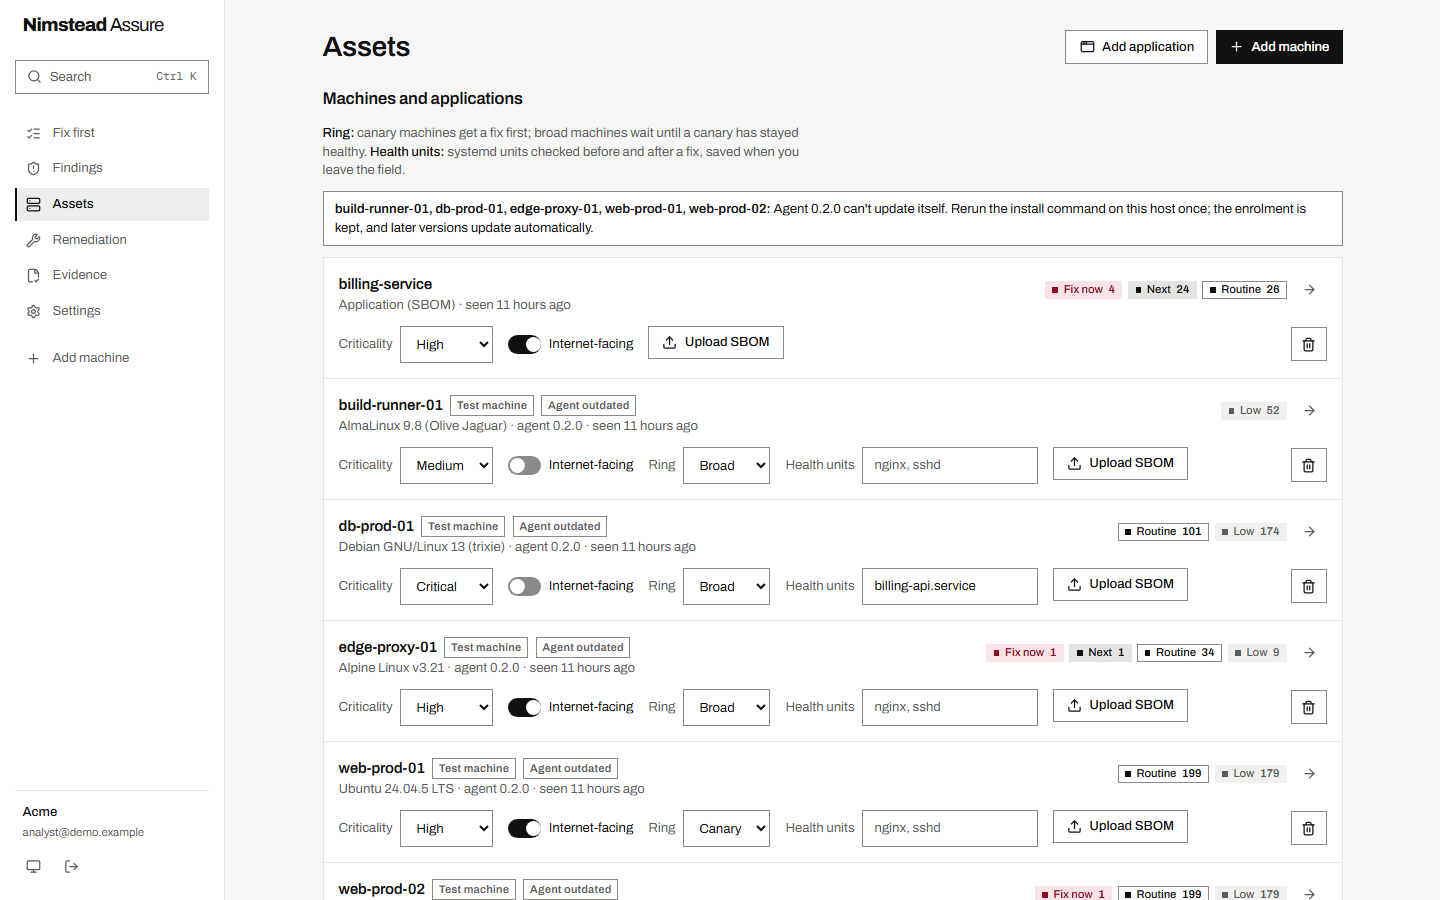
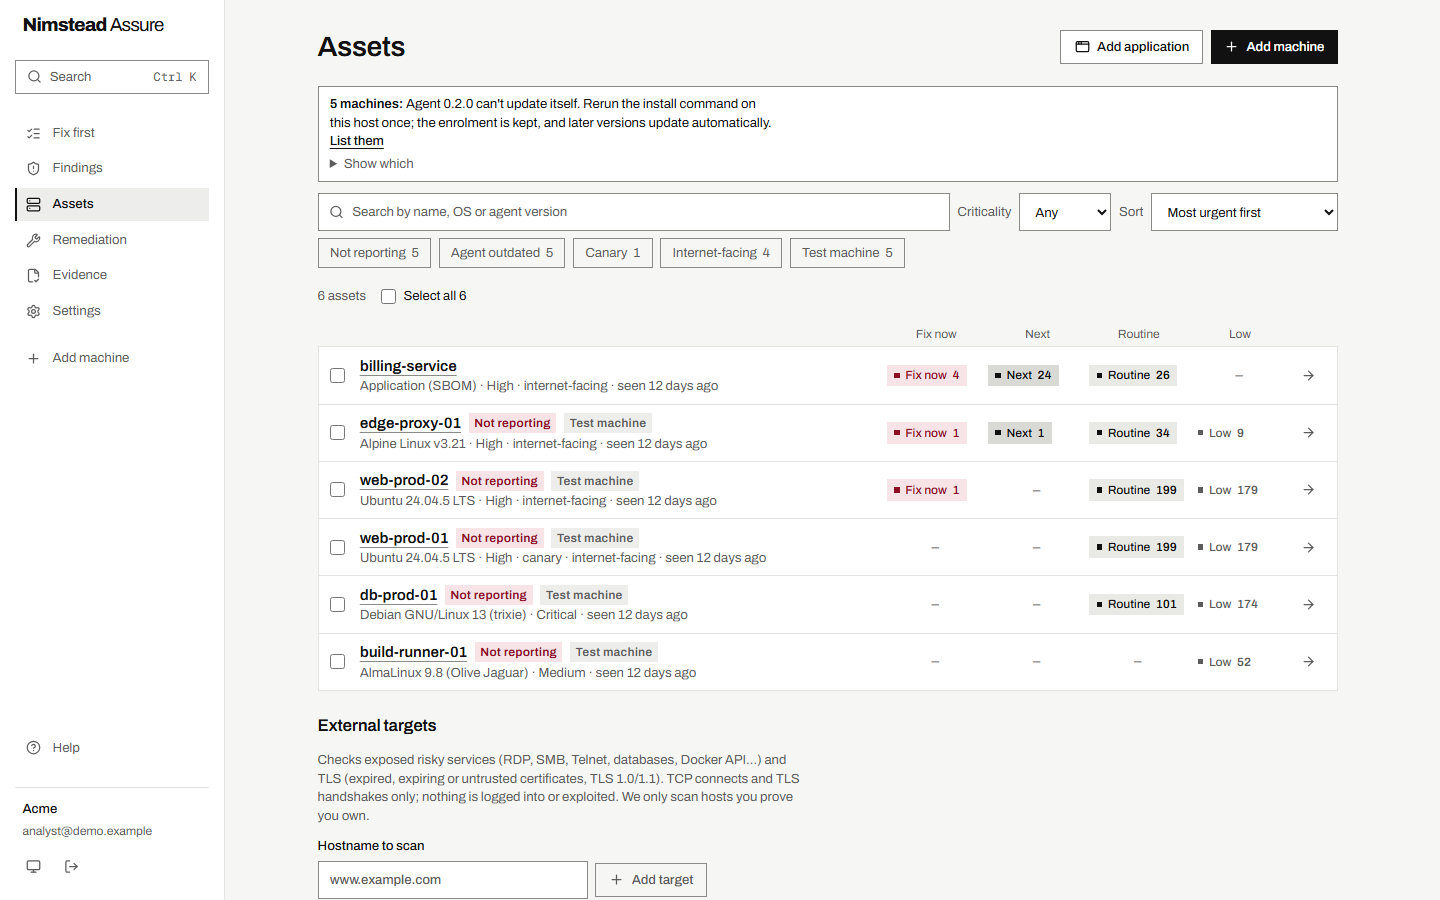
Docs for 0.7.5: README screenshots, fleet view, STATUS (#37)
Documentation for 0.7.5. No code changes.

- **Screenshots:** the six README images are retaken from the real
five-host demo on the 0.7.5 UI (`web/scripts/readme-shots.mjs`, which
now waits for the renamed "Recommended fixes" heading). A new
`findings-fleet-1440.png` shows Findings at 206 machines with three
findings selected; the README says it comes from the demo grown by
cloning the real inventories.
- **README:** a "Works at fleet scale" point (paging, sorting, grouping,
bulk plan and accept, saved views, Ctrl K, keyboard), approval now shows
packages and the machine, and alt text that matches what the new screens
show.
- **STATUS:** the 0.7.5 release line (merge, tag, verified signature and
agent hash 9d3e52e6, beta after 2026-11-23) and how the screenshots are
made, including bringing an older demo database up to the current
schema.

🤖 Generated with [Claude Code](https://claude.com/claude-code)

---------

diff --git a/web/e2e/app.spec.ts b/web/e2e/app.spec.ts
@@ -520,7 +520,7 @@ test("findings: act on a selection, save a view, use the drawer's keys, and land
   const dlg = page.getByRole("alertdialog");
   await dlg.getByLabel("Reason").fill("Isolated test host, no inbound access");
   await dlg.getByRole("button", { name: "Accept risk" }).click();
-  await expect(page.getByText("2 findings accepted for 90 days.")).toBeVisible();
+  await expect(page.locator("main").getByText("2 findings accepted for 90 days.")).toBeVisible();  // not the sr-only live region, which says it too
   // a saved view comes back from the palette
   await page.getByRole("button", { name: "Save view" }).click();
   await page.getByLabel("Name for this view").fill("Test host");

diff --git a/STATUS.md b/STATUS.md
@@ -85,6 +85,7 @@ All four evidence packs verified, with 6/6 controls met. On Alpine, the dry run 
 - **Windows 10 22H2: detection and a safe refusal on a real install (2026-11-02; the last free cumulative's fix through the task proven since, see above, `last_run_windows10_esu_refused.json`, Enterprise Evaluation, build 19045.2006):** install, enrolment and reporting work, and the job stops with no changes and says no Extended Security Updates licence is active. Windows Update offers only the last free update there (2025-10, KB5066791); Nimstead syncs recent MSRC months and targets the ESU updates, so the two disagree for that reason and the comparison isn't an agreement. Installing an ESU fix needs an ESU-licensed machine, which isn't available here. Server 2016 and earlier Windows 10 builds remain untried.
 - **Still missing:** breadth (105 curated apps, where commercial scanners cover thousands; batch 8 stopped the batches by the plan's own rule, no mappable winget candidate with 20 or more CVEs being left; the noise review with the batches installed together covers 50 of them, app findings only, checked by machine against raw NVD with none unexplained, `last_run_winnoise.json`; on 2026-11-04 split over two VMs, 74 apps installed, 353 findings at old versions with none unexplained, `last_run_winnoise_part1of2.json` and `last_run_winnoise_part2of2.json`; after updating, 32 and 23 findings, none unexplained), agentless scanning across real networks (`scan-remote` is proven only on a VM scanning itself, `last_run_winremote.json`: same packages and settings as the agent; it can't fix, and needs PowerShell remoting on), full CIS/STIG benchmarks. The .NET Framework fix is proven on Windows 11, Server 2019 and Server 2022 (`last_run_winnetfx*.json`); Windows 10 22H2 detects but can't install it without an ESU licence (`last_run_winnetfx_windows10_22h2.json`), and Server 2016 and 2025 are untried.
 - **After 0.7.0 (2026-11-06):** how much of a host is checked, on a real Windows 11 VM with 63 apps: 57 of 77 installs (`last_run_wincoverage.json`; a .NET runtime is now counted through the fact the server checks); the SharePoint and Exchange collectors on real installs from Microsoft's trial media, each reporting the version the host itself records (`last_run_winsharepoint.json`, `last_run_winexchange.json`; SharePoint as binaries only, Exchange as its management tools, not a mailbox server); the benchmark settings read in full on a German Windows install (`last_run_winbaseline_judged_as.json`); the agent installed by a Group Policy scheduled task at boot, with nobody signed in (`last_run_wingpo.json`; how-to in docs/install.md); a two-node failover cluster patched node by node with the role online from outside throughout (`last_run_wincluster.json`, agent 0.6.2: two health-check bugs it found are fixed, see CHANGELOG); the benchmark references on a real Server 2025 (`last_run_winbaseline.json`): 20 sampled rules read the same by the agent and in the guest. `winvm.py create --reuse` proven on a real VM: a Server 2025 base installed once, the run's clone reported 2 minutes after start (DECISIONS 107).
+- **Release 0.7.5:** released 2026-11-09 on the preview channel (agent 0.6.6), the owner's go-ahead and gate approval; PR #36 squash-merged as 30112ce and tagged v0.7.5; manifest signature and the published agent's hash (9d3e52e6…) verified against the tag. It carries a UI review at fleet scale: eight rounds of Impeccable critique (26 to 30/40) and six of technical audit (15 to 16/20) on a 206-machine demo, the browser detector from about 500 findings to 0, axe clean at 1440 and 375 in both themes. Bulk plan and accept on Findings, saved views, paging, grouping and sorting; Assets as a filterable list with a drawer; approval with packages and machine context; gzip and immutable asset caching; the agent's rollback check no longer prints a mismatch on success. No migration. Promote to beta after 2026-11-23 if no agent regressions.
 - **Release 0.7.4:** released 2026-11-08 on the preview channel (agent 0.6.5), the owner's go-ahead and gate approval; PR #34 squash-merged as 8dc3bd2 and tagged v0.7.4; manifest signature and the published agent's hash (fdebe9e7…) verified against the tag. It carries the fixes from a full code audit (ledger and remediation locking, findings kept open on failed sources, the batch plan endpoint, faster ledger, pack and engine; DECISIONS 121, 122), one migration (a1c3e5f7b902), and the docs catch-up for 0.7.3.
 - **Release 0.7.3:** released 2026-11-08 on the preview channel (agent 0.6.4), the owner's go-ahead and gate approval; PR #33 squash-merged as 740bb6e and tagged v0.7.3; manifest signature and the published agent's hash (b9975327…) verified against the tag. It carries the .NET fix on Windows Server (DECISIONS 117, 118), five more years of MSRC for Microsoft apps (DECISIONS 114), the VirtualBox 7.x publisher (DECISIONS 113), the app rules labelled by evidence (W13) and the real-install proofs of W2, W4, W5 and W6.
 - **Release 0.7.2:** released 2026-11-07 on the preview channel (agent 0.6.3), the owner's go-ahead and gate approval; PR #32 squash-merged as 19e5f81 and tagged v0.7.2; manifest signature and the published agent's hash (e202064a…) verified against the tag. It carries W11, W13 batch 8, the W1 coverage fix, attack paths on group membership (DECISIONS 112) and the engine shadow (phase 1 of `tasks/plan-engine-findings.md`).
@@ -106,7 +107,7 @@ All four evidence packs verified, with 6/6 controls met. On Alpine, the dry run 
 - **Real-host E2E:** `cd api && uv run python ../sandbox/sbx.py --distro Debian|Ubuntu-24.04|AlmaLinux-9|alpine-3.21.0` · openSUSE + snapper: `uv run python ../sandbox/suse.py` · Windows (Server 2025 or Windows 11 ISO): `../sandbox/winvm.py create ISO`, then `../sandbox/wine2e.py VM`
 - **Docker Compose install:** `cd api && uv run python ../sandbox/compose.py`
 - **Signed platform + agent updates (real Compose host):** `cd api && uv run python ../sandbox/platform_update.py` · agent schedule on real systemd: `uv run python ../sandbox/agent_schedule.py`
-- **Demo from real hosts (README screenshots):** `cd api && uv run python ../sandbox/demo.py`, then serve `api/demo/nimstead-demo.db` as its docstring shows
+- **Demo from real hosts (README screenshots):** `cd api && uv run python ../sandbox/demo.py`, then serve `api/demo/nimstead-demo.db` as its docstring shows; then `cd web && node scripts/readme-shots.mjs <url>`. An older demo database needs the new tables and columns before it serves (0.7.5's shots used a copy brought up to the current schema). `docs/images/findings-fleet-1440.png` comes from the fleet demo: the same database grown to 206 machines by cloning the real inventories (206 assets, 44k open findings), used for the 0.7.5 UI review
 - **PostgreSQL suite:** `cd api && uv run python ../sandbox/pg.py`
 
 ## Review notes (Windows round 1: calls made without the owner, plan decision 7)

diff --git a/README.md b/README.md
@@ -23,21 +23,26 @@ Nimstead Assure scans your Linux and Windows machines and your applications' dep
 - **Says how sure it is.** Every check on a host gets a verdict and a confidence, and the scan report says what stopped any check from concluding instead of calling the host clean. It also shows how a host's weaknesses chain into a compromise, from getting in to reaching the next machine, and the single fix that breaks each chain.
 - **Covers your applications too.** Upload a CycloneDX or SPDX SBOM from CI, and PyPI, npm, Maven, NuGet, RubyGems, Go, crates.io, Packagist, Hex and Pub packages are matched the same way.
 - **Tells you what to fix first.** CISA KEV first, then EPSS likelihood, CVSS, how critical the machine is and whether it faces the internet, with a plain-English reason for every score. The home screen shows *upgrades* ("openssl → fixes 12 vulnerabilities on 3 hosts"), not a wall of CVEs.
-- **Fixes things without surprises.** You approve a fix. It goes to canary machines first, with a dry run that refuses anything outside the plan, a rollback copy taken before every change, health checks after, and automatic rollback if they fail. A fix only counts once the next inventory shows the vulnerability is gone.
+- **Works at fleet scale.** Findings page through tens of thousands of rows, sort by any column, and group by vulnerability or package. Select findings to plan the fix on every machine they're on, or accept the risk with one recorded reason. Save filter sets as views, search everything with Ctrl K, and step through findings with the keyboard. Assets has search, filters and bulk edit.
+- **Fixes things without surprises.** You approve a fix, after seeing every package it changes and the machine it runs on. It goes to canary machines first, with a dry run that refuses anything outside the plan, a rollback copy taken before every change, health checks after, and automatic rollback if they fail. A fix only counts once the next inventory shows the vulnerability is gone.
 - **Proves the work.** Every detection, fix and decision lands in a hash-chained ledger with signed off-database checkpoints. Ed25519-signed evidence packs map to Cyber Essentials, ISO 27001 A.8.8, NIST RA-5/SI-2, PCI DSS 6.3.3 and CIS 7, and verify offline against a pinned key fingerprint.
 - **Watches your edge.** Internet hosts you prove you own (DNS TXT) are checked for exposed risky services and weak TLS.
 - **Keeps itself current, safely.** Agents update themselves only from releases signed by the Nimstead release key, which your server never holds, so a compromised server can't push code to your machines. The server tells you when a release is out, and `deploy/update.sh` installs it with a database backup and automatic rollback. Machines that stop reporting are flagged.
 - **Fits your organisation.** OIDC single sign-on with verified domains, admin and read-only roles, webhook and email alerts for failed fixes and new urgent findings, keys in Vault and checkpoints in object-locked S3.
 
-Every screenshot here is from a real run ([`sandbox/demo.py`](sandbox/demo.py)): five disposable Linux machines (Ubuntu 24.04, Debian 13, AlmaLinux 9, Alpine 3.21) running the real agent, real vulnerability feeds, an application SBOM, and real fixes on those machines.
+Every screenshot here is from a real run ([`sandbox/demo.py`](sandbox/demo.py)): five disposable Linux machines (Ubuntu 24.04, Debian 13, AlmaLinux 9, Alpine 3.21) running the real agent, real vulnerability feeds, an application SBOM, and real fixes on those machines. The fleet view below is the same demo grown to 206 machines by cloning those real inventories.
 
 | A fix verified, a fix rolled back when it broke a service, and one the dry run refused | Why a finding matched, and why it's ranked there |
 |---|---|
-| ![Remediation: acl awaiting approval; openssl on Alpine refused because it would also change musl; openssl on Debian rolled back after billing-api.service kept restarting; brotli on Ubuntu fixed and verified](docs/images/remediation-1440.png) | ![Log4Shell (CVE-2021-44228) on billing-service: installed 2.14.1, fixed 2.15.0, ranked by CISA KEV, CVSS 10, internet-facing and high criticality](docs/images/findings-1440.png) |
+| ![Remediation: acl awaiting approval with each package's from and to versions; openssl on Alpine refused because it would also change musl, with Plan again including musl; openssl on Debian rolled back after billing-api.service kept restarting, with advice before planning it again; both marked self-approved](docs/images/remediation-1440.png) | ![Log4Shell (CVE-2021-44228) on billing-service: installed 2.14.1, fixed 2.15.0, with 2.25.4 named as the upgrade that clears all seven open findings; ranked by CISA KEV, CVSS 10, internet-facing and high criticality](docs/images/findings-1440.png) |
 
-| Every machine, its ring and its health checks | Controls an auditor can check | Light and dark, down to phone width |
+| Every machine, filtered and sorted by urgency | Controls an auditor can check | Light and dark, down to phone width |
 |---|---|---|
-| ![Assets: five Linux machines running agent 0.2.0 and an application, with criticality, canary and broad rings and health units](docs/images/assets-1440.png) | ![Evidence: Cyber Essentials, ISO 27001, NIST, PCI DSS and CIS control status](docs/images/evidence-1440.png) | ![Fix first in dark mode at 375px](docs/images/home-375-dark.png) |
+| ![Assets: five Linux machines and an application with search, filters, sort and open findings by priority; ring and health checks are set in each machine's drawer](docs/images/assets-1440.png) | ![Evidence: Cyber Essentials, ISO 27001, NIST, PCI DSS, SOC 2 and CIS control status, with a note that the period rests on one fix and RA-5 met with five machines not reporting now](docs/images/evidence-1440.png) | ![Fix first in dark mode at 375px](docs/images/home-375-dark.png) |
+
+| 44,000 findings on 206 machines: three selected, one upgrade to plan across all of them |
+|---|
+| ![Findings at fleet scale: 16,854 fixable results with sortable columns, a saved-view button and three brotli findings selected; the bar at the bottom offers Accept risk and Plan 1 fix on 3 machines](docs/images/findings-fleet-1440.png) |
 
 ## Get started
 
